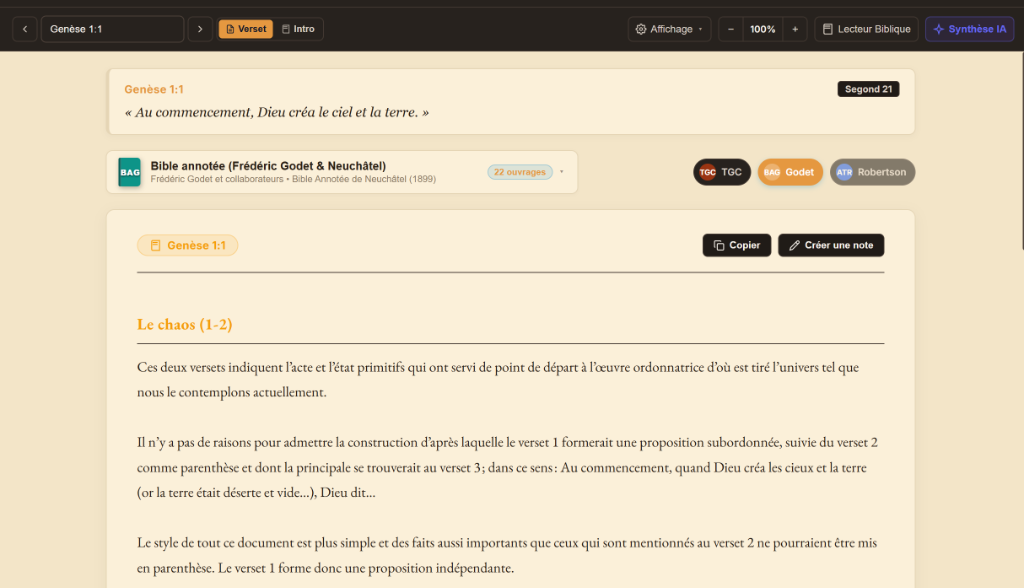
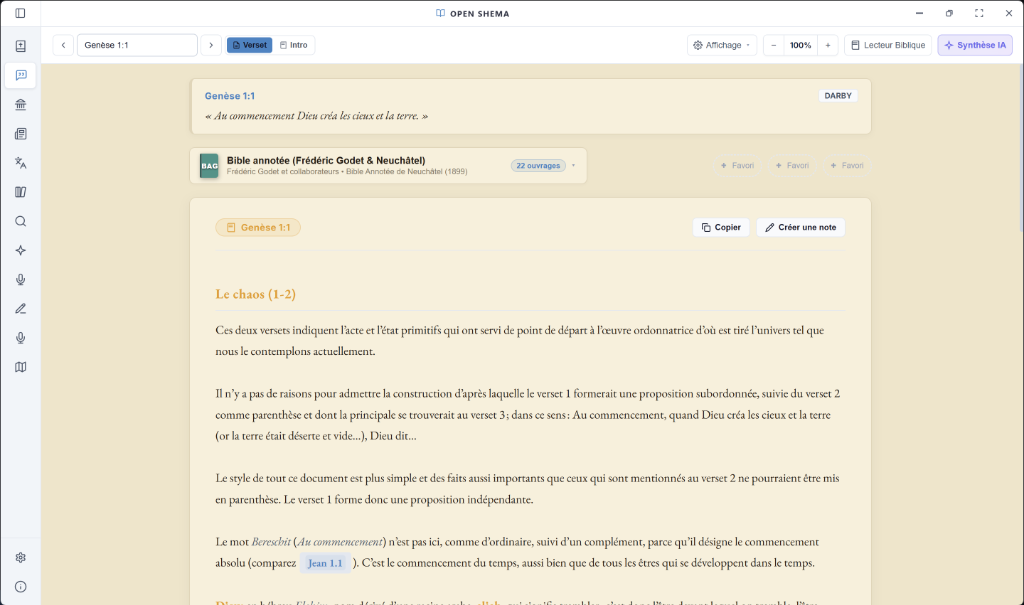
feat(landing): integration des nouvelles captures d'ecran HD (mode clair, volet droit, commentaires, theologie, articles)

Changed region(s): [[0.0938, 0.2449, 0.9062, 0.8571], [0.0, 0.0, 1.0, 1.0], [0.125, 0.8878, 0.875, 1.0]]

diff --git a/index.html b/index.html
@@ -140,7 +140,7 @@
           <!-- Infobulle apparaissant uniquement au survol du bouton -->
           <div class="hero-install-tooltip" role="tooltip">
             <svg width="15" height="15" viewBox="0 0 24 24" fill="none" stroke="currentColor" stroke-width="2"><rect x="3" y="3" width="18" height="18" rx="2" ry="2"></rect><line x1="3" y1="9" x2="21" y2="9"></line><line x1="9" y1="21" x2="9" y2="9"></line></svg>
-            <span><strong>Windows 10 &amp; 11 (64-bit)</strong> • Archive autonome prête à l'emploi (~321 Mo) • Décompressez et lancez directement <code>Open Shema.exe</code> (sans installateur ni droits admin)</span>
+            <span><strong>Windows 10 &amp; 11 (64-bit)</strong> • Archive autonome prête à l'emploi (~585 Mo) • Décompressez et lancez directement <code>Open Shema.exe</code> (sans installateur ni droits admin)</span>
           </div>
         </div>
 
@@ -2256,8 +2256,8 @@
 
       <!-- Filtres de Catégories -->
       <div class="gallery-filter-bar reveal-on-scroll">
-        <button class="gallery-filter-btn active" data-filter="all">Toutes les vues (27)</button>
-        <button class="gallery-filter-btn" data-filter="etude">Bibles &amp; Étude (9)</button>
+        <button class="gallery-filter-btn active" data-filter="all">Toutes les vues (28)</button>
+        <button class="gallery-filter-btn" data-filter="etude">Bibles &amp; Étude (10)</button>
         <button class="gallery-filter-btn" data-filter="mindmap">Cartes Mentales (4)</button>
         <button class="gallery-filter-btn" data-filter="predication">Prédication &amp; Notes (5)</button>
         <button class="gallery-filter-btn" data-filter="ia">Assistant IA &amp; Profil (3)</button>
@@ -2268,10 +2268,10 @@
       <!-- Grille Complète des Captures Réelles -->
       <div class="gallery-grid reveal-on-scroll">
         
-        <!-- Lecteur Biblique & Volet Droit Contextuel -->
-        <div class="gallery-item-card" data-category="etude" data-img-src="assets/img/capture-bible-volet-droit.png" data-title="Lecteur Biblique &amp; Volet Contextuel (Mode Clair)" data-desc="Lecture continue de Genèse 1 en Néo-Crampon Libre avec volet contextuel synchronisé : vidéos et posters littéraires BibleProject, commentaires exégétiques et articles théologiques.">
+        <!-- 1. Lecteur Biblique Épuré en Mode Clair -->
+        <div class="gallery-item-card" data-category="etude" data-img-src="assets/img/capture-bible-mode-clair.png" data-title="1. Lecteur Biblique — Écrin de Lecture Épuré (Mode Clair)" data-desc="Lecture continue de Genèse 1 en Bible J.N. Darby (avec Strong) en mode clair épuré avec fond papier doux, surlignage feutre, accès instantané à l'interlinéaire, au comparateur et à l'ouverture multi-écrans.">
           <div class="gallery-item-thumb">
-            <img src="assets/img/capture-bible-volet-droit.png" alt="Lecteur Biblique et Volet Droit - Mode Clair" loading="lazy">
+            <img src="assets/img/capture-bible-mode-clair.png" alt="Lecteur Biblique Épuré - Mode Clair" loading="lazy">
             <div class="gallery-zoom-overlay">
               <svg width="16" height="16" viewBox="0 0 24 24" fill="none" stroke="currentColor" stroke-width="2"><circle cx="11" cy="11" r="8"></circle><line x1="21" y1="21" x2="16.65" y2="16.65"></line><line x1="11" y1="8" x2="11" y2="14"></line><line x1="8" y1="11" x2="14" y2="11"></line></svg>
               Agrandir
@@ -2279,13 +2279,29 @@
           </div>
           <div class="gallery-item-info">
             <div class="gallery-item-num">Bibles &amp; Étude</div>
-            <h3 class="gallery-item-title">Lecteur Biblique &amp; Volet Droit</h3>
-            <p class="gallery-item-desc">Genèse 1 (Néo-Crampon Libre) en mode clair avec volet contextuel (Aperçu, BibleProject &amp; Commentaires).</p>
+            <h3 class="gallery-item-title">Lecteur Biblique (Mode Clair)</h3>
+            <p class="gallery-item-desc">Genèse 1 en Bible Darby, fond papier sépia doux, surlignage et barre d'outils d'étude épurée.</p>
           </div>
         </div>
 
-        <!-- 1 - Guide de passage -->
-        <div class="gallery-item-card" data-category="etude" data-img-src="assets/img/capture-1-guide-passage.png" data-title="1. Guide de Passage &amp; Texte Synoptique (Genèse 1)" data-desc="Navigation fluide verset par verset (Genèse 1:1–31), codes Strong intégrés (Louis Segond 1910), comparaison multi-versions et synchronisation instantanée du lecteur.">
+        <!-- 2. Lecteur Biblique & Volet Droit Contextuel (Aperçu 360°) -->
+        <div class="gallery-item-card" data-category="etude" data-img-src="assets/img/capture-bible-volet-droit.png" data-title="2. Lecteur Biblique &amp; Volet Contextuel « Aperçu 360° »" data-desc="Lecture de Genèse 1:1 avec volet contextuel synchronisé : vidéos et affiches panoramiques BibleProject (Genèse 1-11), 22 commentaires exégétiques et articles théologiques associés au verset.">
+          <div class="gallery-item-thumb">
+            <img src="assets/img/capture-bible-volet-droit.png" alt="Lecteur Biblique et Volet Droit - Aperçu 360" loading="lazy">
+            <div class="gallery-zoom-overlay">
+              <svg width="16" height="16" viewBox="0 0 24 24" fill="none" stroke="currentColor" stroke-width="2"><circle cx="11" cy="11" r="8"></circle><line x1="21" y1="21" x2="16.65" y2="16.65"></line><line x1="11" y1="8" x2="11" y2="14"></line><line x1="8" y1="11" x2="14" y2="11"></line></svg>
+              Agrandir
+            </div>
+          </div>
+          <div class="gallery-item-info">
+            <div class="gallery-item-num">Bibles &amp; Étude</div>
+            <h3 class="gallery-item-title">Volet Contextuel « Aperçu 360° »</h3>
+            <p class="gallery-item-desc">Genèse 1:1 avec ressources BibleProject, 22 commentaires exégétiques et articles reliés.</p>
+          </div>
+        </div>
+
+        <!-- 3. Guide de passage -->
+        <div class="gallery-item-card" data-category="etude" data-img-src="assets/img/capture-1-guide-passage.png" data-title="3. Guide de Passage &amp; Texte Synoptique (Genèse 1)" data-desc="Navigation fluide verset par verset (Genèse 1:1–31), codes Strong intégrés (Louis Segond 1910), comparaison multi-versions et synchronisation instantanée du lecteur.">
           <div class="gallery-item-thumb">
             <img src="assets/img/capture-1-guide-passage.png" alt="Guide de Passage - Genèse 1:1-31" loading="lazy">
             <div class="gallery-zoom-overlay">
@@ -2300,8 +2316,8 @@
           </div>
         </div>
 
-        <!-- 2 - Double Vue Synchronisée -->
-        <div class="gallery-item-card" data-category="etude" data-img-src="assets/img/capture-bible-synchro-double-vue.png" data-title="2. Vue Biblique Synchronisée entre Deux Versions" data-desc="Lecture bicolonne en parallèle (Hugues Oltramare vs Bible de Jérusalem) avec défilement synchronisé automatique verset par verset, surlignage et mode papier sépia doux.">
+        <!-- 4. Double Vue Synchronisée -->
+        <div class="gallery-item-card" data-category="etude" data-img-src="assets/img/capture-bible-synchro-double-vue.png" data-title="4. Vue Biblique Synchronisée entre Deux Versions" data-desc="Lecture bicolonne en parallèle (Hugues Oltramare vs Bible de Jérusalem) avec défilement synchronisé automatique verset par verset, surlignage et mode papier sépia doux.">
           <div class="gallery-item-thumb">
             <img src="assets/img/capture-bible-synchro-double-vue.png" alt="Double Vue Biblique Synchronisée" loading="lazy">
             <div class="gallery-zoom-overlay">
@@ -2316,7 +2332,7 @@
           </div>
         </div>
 
-        <!-- 3 - Mode Immersion Historique Sépia -->
+        <!-- 5. Mode Immersion Historique Sépia -->
         <div class="gallery-item-card" data-category="etude" data-img-src="assets/img/capture-immersion-historique-sepia.jpg" data-title="Mode Immersion Historique — Parchemin Sépia &amp; Lettrines" data-desc="Mise en page d'époque authentique (Lévitique 1 · Septante 1872) : texture de papier vergé, patine d'imprimerie, lettrine bistre et typographie à empattements historiques.">
           <div class="gallery-item-thumb">
             <img src="assets/img/capture-immersion-historique-sepia.jpg" alt="Mode Immersion Historique Sépia" loading="lazy">
@@ -2332,7 +2348,7 @@
           </div>
         </div>
 
-        <!-- 4 - Mode Immersion Historique Sombre -->
+        <!-- 6. Mode Immersion Historique Sombre -->
         <div class="gallery-item-card" data-category="etude" data-img-src="assets/img/capture-immersion-historique-sombre.png" data-title="Mode Immersion Historique — Ardoise Sombre &amp; Encre Dorée" data-desc="Lecture biblique nocturne immersive : fond ardoise texturé, lettrines enluminées dorées, ligatures historiques et grand confort visuel sans reflets.">
           <div class="gallery-item-thumb">
             <img src="assets/img/capture-immersion-historique-sombre.png" alt="Mode Immersion Historique Sombre" loading="lazy">
@@ -2348,8 +2364,8 @@
           </div>
         </div>
 
-        <!-- 3 - Commentaire -->
-        <div class="gallery-item-card" data-category="etude" data-img-src="assets/img/capture-2-commentaire.png" data-title="3. Commentaires Historiques &amp; Exégétiques (Genèse 1:1)" data-desc="Étude verset par verset avec la Bible annotée (Frédéric Godet &amp; Neuchâtel), The Gospel Coalition et A.T. Robertson, avec export en note et synthèse IA.">
+        <!-- 7. Commentaires Historiques & Exégèse Croisée -->
+        <div class="gallery-item-card" data-category="etude" data-img-src="assets/img/capture-2-commentaire.png" data-title="7. Commentaires Historiques &amp; Exégétiques (Genèse 1:1)" data-desc="Étude verset par verset avec la Bible annotée (Frédéric Godet &amp; Neuchâtel), verset en rappel, navigation entre 22 ouvrages exégétiques, bascule Verset/Intro et synthèse comparative IA.">
           <div class="gallery-item-thumb">
             <img src="assets/img/capture-2-commentaire.png" alt="Commentaire biblique - Genèse 1:1" loading="lazy">
             <div class="gallery-zoom-overlay">
@@ -2360,14 +2376,14 @@
           <div class="gallery-item-info">
             <div class="gallery-item-num">Bibles &amp; Étude</div>
             <h3 class="gallery-item-title">Bible Annotée &amp; Exégèse Croisée</h3>
-            <p class="gallery-item-desc">Godet &amp; Neuchâtel sur Genèse 1:1, navigation entre 22 ouvrages et synthèse IA.</p>
+            <p class="gallery-item-desc">Godet &amp; Neuchâtel sur Genèse 1:1, navigation entre 22 ouvrages, verset Darby et synthèse IA.</p>
           </div>
         </div>
 
-        <!-- 4 - Théologie -->
-        <div class="gallery-item-card" data-category="etude" data-img-src="assets/img/capture-3-theologie.png" data-title="4. Théologie Systématique &amp; Traités Réformés (Charles Hodge)" data-desc="Lecture intégrale des grands traités doctrinaux (Charles Hodge, 302 chapitres) avec table des matières interactive, recherche de chapitres et mode papier sépia.">
+        <!-- 8. Théologie Systématique & E-books -->
+        <div class="gallery-item-card" data-category="etude" data-img-src="assets/img/capture-3-theologie.png" data-title="8. Lecteur Théologique &amp; E-books (J.H. Alexander)" data-desc="Lecture intégrale d'ouvrages théologiques (« Lire et comprendre la Bible », 84 chapitres) avec table des matières arborescente, résumé IA, mode papier sépia et références scripturaires universellement cliquables.">
           <div class="gallery-item-thumb">
-            <img src="assets/img/capture-3-theologie.png" alt="Théologie Systématique - Charles Hodge" loading="lazy">
+            <img src="assets/img/capture-3-theologie.png" alt="Théologie - Lire et comprendre la Bible" loading="lazy">
             <div class="gallery-zoom-overlay">
               <svg width="16" height="16" viewBox="0 0 24 24" fill="none" stroke="currentColor" stroke-width="2"><circle cx="11" cy="11" r="8"></circle><line x1="21" y1="21" x2="16.65" y2="16.65"></line><line x1="11" y1="8" x2="11" y2="14"></line><line x1="8" y1="11" x2="14" y2="11"></line></svg>
               Agrandir
@@ -2375,8 +2391,8 @@
           </div>
           <div class="gallery-item-info">
             <div class="gallery-item-num">Bibles &amp; Étude</div>
-            <h3 class="gallery-item-title">Théologie Systématique (302 chapitres)</h3>
-            <p class="gallery-item-desc">Charles Hodge, table des matières arborescente et lecture théologique grand format.</p>
+            <h3 class="gallery-item-title">Lecteur Théologique &amp; E-books</h3>
+            <p class="gallery-item-desc">« Lire et comprendre la Bible » (J.H. Alexander), table des matières arborescente et versets cliquables.</p>
           </div>
         </div>
 
@@ -2670,7 +2686,7 @@
         </div>
 
         <!-- 19 - Articles de blogs -->
-        <div class="gallery-item-card" data-category="blogs" data-img-src="assets/img/capture-4-articles-blogs.png" data-title="19. Articles de Blogs Théologiques &amp; Podcasts" data-desc="Flux théologique francophone en temps réel (Évangile 21, podcasts dont « Un pasteur vous répond » de Florent Varak), avec filtres par source, recherche biblique et épisodes audio podcasts intégrés.">
+        <div class="gallery-item-card" data-category="blogs" data-img-src="assets/img/capture-4-articles-blogs.png" data-title="19. Articles de Blogs Théologiques &amp; Podcasts (TPSG, E21, UPVR)" data-desc="Flux théologique francophone complet (Tout Pour Sa Gloire, Évangile 21, podcasts de Florent Varak) : vignettes modernes avec photos d'auteurs, pastilles de sources, catégories doctrinales et références scripturaires associées.">
           <div class="gallery-item-thumb">
             <img src="assets/img/capture-4-articles-blogs.png" alt="Articles de Blogs Théologiques" loading="lazy">
             <div class="gallery-zoom-overlay">
@@ -2680,8 +2696,8 @@
           </div>
           <div class="gallery-item-info">
             <div class="gallery-item-num">Blogs &amp; Paramètres</div>
-            <h3 class="gallery-item-title">Flux d'Articles &amp; Podcasts Théologiques</h3>
-            <p class="gallery-item-desc">Veille pastorale (Évangile 21, Un pasteur vous répond), filtres par source et recherche par passages bibliques.</p>
+            <h3 class="gallery-item-title">Articles Théologiques &amp; Podcasts</h3>
+            <p class="gallery-item-desc">Cartes d'auteurs (John Piper, Yannick Imbert, Florent Varak), filtres par source et flux actualisé.</p>
           </div>
         </div>
 
